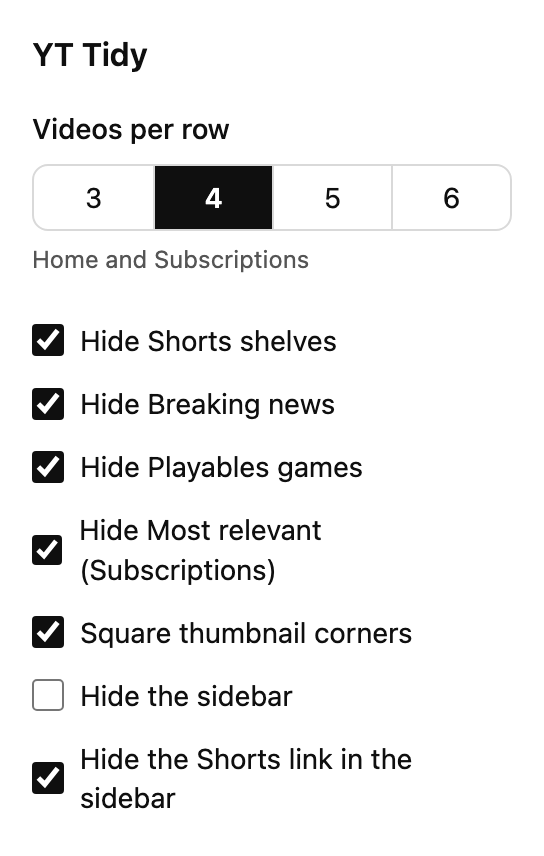
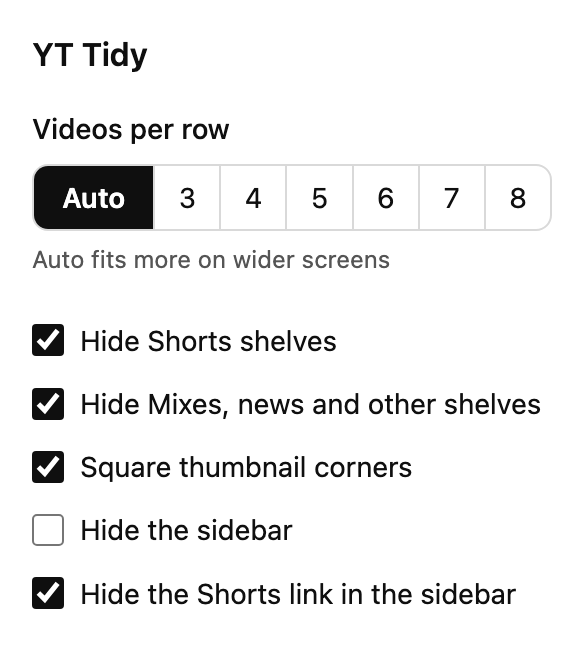
Hide every shelf by its format, fit videos per row to the screen width

diff --git a/src/content.js b/src/content.js
@@ -1,4 +1,4 @@
-/* global YT_TIDY_DEFAULTS, YT_TIDY_COLUMN_CHOICES */
+/* global YT_TIDY_DEFAULTS, YT_TIDY_ROW_CHOICES, YT_TIDY_CARD_WIDTH, YT_TIDY_OLD_KEYS */
 (() => {
   const root = document.documentElement;
 
@@ -14,21 +14,27 @@
     else root.removeAttribute(attribute);
   }
 
+  // The count chosen in the popup, or "auto".
+  let videosPerRowSetting = YT_TIDY_DEFAULTS.videosPerRow;
+
   function apply(settings) {
     setShown("data-ytt-shorts", !settings.hideShorts);
+    setShown("data-ytt-shelves", !settings.hideShelves);
     setShown("data-ytt-shorts-link", !settings.hideShortsLink);
     if (settings.hideSidebar) root.setAttribute("data-ytt-sidebar", "hide");
     else root.removeAttribute("data-ytt-sidebar");
-    setShown("data-ytt-breaking-news", !settings.hideBreakingNews);
-    setShown("data-ytt-playables", !settings.hidePlayables);
-    setShown("data-ytt-most-relevant", !settings.hideMostRelevant);
     if (settings.squareCorners) root.removeAttribute("data-ytt-corners");
     else root.setAttribute("data-ytt-corners", "round");
 
-    const columns = YT_TIDY_COLUMN_CHOICES.includes(Number(settings.columns))
-      ? Number(settings.columns)
-      : YT_TIDY_DEFAULTS.columns;
-    root.style.setProperty("--ytt-columns", String(columns));
+    const choice = YT_TIDY_ROW_CHOICES.find(
+      (option) => String(option) === String(settings.videosPerRow),
+    );
+    videosPerRowSetting = choice ?? YT_TIDY_DEFAULTS.videosPerRow;
+    if (videosPerRowSetting === "auto") {
+      root.style.removeProperty("--ytt-columns");
+    } else {
+      root.style.setProperty("--ytt-columns", String(videosPerRowSetting));
+    }
 
     scheduleReflow();
   }
@@ -38,13 +44,47 @@
   }
 
   loadSettings();
+  chrome.storage.sync.remove(YT_TIDY_OLD_KEYS);
   chrome.storage.onChanged.addListener((_changes, area) => {
     if (area === "sync") loadSettings();
   });
 
+  // ---- "auto": a count that keeps cards near YT_TIDY_CARD_WIDTH ----
+
+  const CARD_GAP = 16; // YouTube's --ytd-rich-grid-item-margin
+
+  function autoColumns(grid) {
+    // The feed sits inside the grid with a gap on each side. Measure the grid,
+    // not the feed: the feed's max-width depends on the count set here.
+    const width = grid.clientWidth - 2 * CARD_GAP;
+    const fits = Math.round(
+      (width + CARD_GAP) / (YT_TIDY_CARD_WIDTH + CARD_GAP),
+    );
+    return Math.min(Math.max(fits, 2), 12);
+  }
+
+  // Sets --ytt-columns on the grid itself, so the Home and Subscriptions
+  // grids each get their own count. A hidden grid (width 0) keeps its last one.
+  function sizeGrid(grid) {
+    if (videosPerRowSetting !== "auto") {
+      grid.style.removeProperty("--ytt-columns");
+      return;
+    }
+    if (!grid.clientWidth) return;
+    const columns = String(autoColumns(grid));
+    if (grid.style.getPropertyValue("--ytt-columns") !== columns) {
+      grid.style.setProperty("--ytt-columns", columns);
+    }
+  }
+
+  const gridSizes = new ResizeObserver((entries) => {
+    for (const { target } of entries) sizeGrid(target);
+    scheduleReflow();
+  });
+
   // ---- Keep shelves from leaving a half-empty row ----
   //
-  // YouTube drops a shelf (Breaking news, Shorts, "Most relevant", ...) into the
+  // YouTube drops a shelf (Breaking news, Shorts, Mixes, ...) into the
   // feed after every 2 or 3 rows of its own 3-wide grid. At 4 wide that lands
   // mid-row and leaves a gap. The feed is a flexbox, so instead of moving nodes
   // (which would upset YouTube's own bookkeeping) we set each child's CSS
@@ -64,29 +104,7 @@
     return content?.firstElementChild?.tagName === "YTD-SHELF-RENDERER";
   }
 
-  // The "Breaking news" shelf has no marker of its own, only its title, so
-  // tag it for content.css. Re-checked on every pass because YouTube reuses
-  // section elements when the feed changes (e.g. picking a topic chip).
-  const BREAKING_NEWS_TITLE = /^breaking news$/i;
-
-  function tagShelves(contents) {
-    for (const section of contents.querySelectorAll(
-      ":scope > ytd-rich-section-renderer",
-    )) {
-      const title = section
-        .querySelector("ytd-rich-shelf-renderer #title")
-        ?.textContent.trim();
-      const kind = title && BREAKING_NEWS_TITLE.test(title) ? "breaking-news" : "";
-      if ((section.dataset.yttShelf ?? "") !== kind) {
-        if (kind) section.dataset.yttShelf = kind;
-        else delete section.dataset.yttShelf;
-      }
-    }
-  }
-
   function reflow(contents) {
-    tagShelves(contents);
-
     const perRow = videosPerRow(contents.parentElement);
     if (!perRow) return;
 
@@ -134,21 +152,24 @@
     reflowQueued = true;
     requestAnimationFrame(() => {
       reflowQueued = false;
-      document.querySelectorAll(FEED_CONTENTS).forEach(reflow);
+      for (const contents of document.querySelectorAll(FEED_CONTENTS)) {
+        const grid = contents.parentElement;
+        gridSizes.observe(grid); // no-op once observed
+        sizeGrid(grid); // YouTube may have rewritten the grid's inline style
+        reflow(contents);
+      }
     });
   }
 
-  // Re-run when videos or shelves are added to a feed, when a shelf renders
-  // its contents (that is when a Shorts shelf becomes hidden, or a heading
-  // becomes recognisable), and when a shelf's title text arrives.
+  // Re-run when videos or shelves are added to a feed, and when a shelf
+  // renders its contents (that is when it becomes hidden, or a heading
+  // becomes recognisable).
   new MutationObserver((records) => {
     for (const { target } of records) {
       const parentTag = target.parentElement?.tagName;
       if (
         (target.id === "contents" && parentTag === "YTD-RICH-GRID-RENDERER") ||
-        (target.id === "content" && parentTag === "YTD-RICH-SECTION-RENDERER") ||
-        (target.closest?.("ytd-rich-shelf-renderer #title") &&
-          target.closest("ytd-rich-section-renderer"))
+        (target.id === "content" && parentTag === "YTD-RICH-SECTION-RENDERER")
       ) {
         scheduleReflow();
         return;

diff --git a/src/content.css b/src/content.css
@@ -15,31 +15,20 @@ html:not([data-ytt-shorts="show"])
   display: none !important;
 }
 
-/* 2. The "Breaking news" shelf. content.js tags it by its title. */
-html:not([data-ytt-breaking-news="show"])
-  ytd-rich-section-renderer[data-ytt-shelf="breaking-news"] {
-  display: none !important;
-}
-
-/* 2b. The "YouTube Playables" games shelf, recognised by its game cards. */
-html:not([data-ytt-playables="show"])
+/*
+ * 2. Every other shelf: a titled row of cards with a "Show more" button, such
+ * as Breaking news, Mixes, Recently played, games and "Most relevant". They
+ * are matched by that format rather than by title, since YouTube keeps adding
+ * new ones. Section headings such as "Latest" on Subscriptions are a
+ * different element and stay.
+ */
+html:not([data-ytt-shelves="show"])
   ytd-browse:is([page-subtype="home"], [page-subtype="subscriptions"])
   ytd-rich-section-renderer:has(
+    #content > ytd-rich-shelf-renderer:not([is-shorts]),
     ytd-mini-game-card-view-model,
     mini-game-card-view-model,
     ytd-game-card-renderer
-  ) {
-  display: none !important;
-}
-
-/*
- * 2c. The "Most relevant" shelf on Subscriptions. It is the only shelf there
- * besides Shorts; the "Latest" heading is a different element and stays.
- */
-html:not([data-ytt-most-relevant="show"])
-  ytd-browse[page-subtype="subscriptions"]
-  ytd-rich-section-renderer:has(
-    #content > ytd-rich-shelf-renderer:not([is-shorts])
   ) {
   display: none !important;
 }
@@ -69,13 +58,21 @@ html[data-ytt-sidebar="hide"] ytd-app ytd-page-manager {
 /*
  * 5. Videos per row. YouTube writes these variables inline on the grid from
  * its own width maths; an !important stylesheet value beats a plain inline one.
- * Shelves nested in the grid set their own copy, so they keep their layout.
+ * content.js sets --ytt-columns: a fixed count on <html>, or for "auto" a
+ * count worked out from each grid's own width.
  */
 ytd-browse:is([page-subtype="home"], [page-subtype="subscriptions"])
   ytd-rich-grid-renderer {
   --ytd-rich-grid-items-per-row: var(--ytt-columns, 4) !important;
   --ytd-rich-grid-posts-per-row: var(--ytt-columns, 4) !important;
   --ytd-rich-grid-item-min-width: 0px !important;
+}
+
+/* A shelf you choose to keep gets cards the same size as the grid's. */
+ytd-browse:is([page-subtype="home"], [page-subtype="subscriptions"])
+  ytd-rich-shelf-renderer:not([is-shorts])
+  ytd-rich-item-renderer {
+  --ytd-rich-grid-items-per-row: var(--ytt-columns, 4) !important;
 }
 
 /*

diff --git a/src/popup.js b/src/popup.js
@@ -1,10 +1,8 @@
-/* global YT_TIDY_DEFAULTS, YT_TIDY_COLUMN_CHOICES */
+/* global YT_TIDY_DEFAULTS, YT_TIDY_ROW_CHOICES */
 const columnsGroup = document.getElementById("columns");
 const toggles = [
   "hideShorts",
-  "hideBreakingNews",
-  "hidePlayables",
-  "hideMostRelevant",
+  "hideShelves",
   "squareCorners",
   "hideSidebar",
   "hideShortsLink",
@@ -12,14 +10,14 @@ const toggles = [
 const hideSidebar = document.getElementById("hideSidebar");
 const hideShortsLink = document.getElementById("hideShortsLink");
 
-for (const count of YT_TIDY_COLUMN_CHOICES) {
+for (const choice of YT_TIDY_ROW_CHOICES) {
   const label = document.createElement("label");
   const input = document.createElement("input");
   input.type = "radio";
-  input.name = "columns";
-  input.value = String(count);
+  input.name = "videosPerRow";
+  input.value = String(choice);
   const text = document.createElement("span");
-  text.textContent = String(count);
+  text.textContent = choice === "auto" ? "Auto" : String(choice);
   label.append(input, text);
   columnsGroup.append(label);
 }
@@ -32,7 +30,7 @@ function syncSidebarDependency() {
 chrome.storage.sync.get(YT_TIDY_DEFAULTS).then((settings) => {
   for (const input of toggles) input.checked = Boolean(settings[input.id]);
   const chosen = columnsGroup.querySelector(
-    `input[value="${Number(settings.columns)}"]`,
+    `input[value="${CSS.escape(String(settings.videosPerRow))}"]`,
   );
   if (chosen) chosen.checked = true;
   syncSidebarDependency();
@@ -46,5 +44,6 @@ for (const input of toggles) {
 }
 
 columnsGroup.addEventListener("change", (event) => {
-  chrome.storage.sync.set({ columns: Number(event.target.value) });
+  const { value } = event.target;
+  chrome.storage.sync.set({ videosPerRow: value === "auto" ? value : Number(value) });
 });

diff --git a/src/settings.js b/src/settings.js
@@ -1,15 +1,23 @@
-// Shared by the content script and the popup.
 // content.css applies these defaults before storage is read, so the page
 // never flashes a hidden shelf. Only the sidebar is opt-in.
 var YT_TIDY_DEFAULTS = {
-  hideShorts: true, // Shorts shelves in the Home and Subscriptions feeds
-  hideBreakingNews: true, // the "Breaking news" shelf on Home
-  hidePlayables: true, // the "YouTube Playables" games shelf on Home
-  hideMostRelevant: true, // the "Most relevant" shelf on Subscriptions
-  hideShortsLink: true, // the "Shorts" entry in the sidebar (if the sidebar is shown)
-  hideSidebar: false, // the left sidebar, its mini version, and the menu button
-  columns: 4, // videos per row on Home and Subscriptions
-  squareCorners: true, // square thumbnails instead of rounded ones
+  hideShorts: true,
+  hideShelves: true,
+  hideShortsLink: true,
+  hideSidebar: false,
+  videosPerRow: "auto",
+  squareCorners: true,
 };
 
-var YT_TIDY_COLUMN_CHOICES = [3, 4, 5, 6];
+// "auto" aims for cards about YT_TIDY_CARD_WIDTH px wide: 5 per row on a
+// laptop or 1920px screen, 7 at 2560px, 10 on a 3440px ultrawide.
+var YT_TIDY_ROW_CHOICES = ["auto", 3, 4, 5, 6, 7, 8];
+var YT_TIDY_CARD_WIDTH = 300;
+
+// Settings from earlier versions, removed from storage on load.
+var YT_TIDY_OLD_KEYS = [
+  "columns",
+  "hideBreakingNews",
+  "hidePlayables",
+  "hideMostRelevant",
+];

diff --git a/src/popup.html b/src/popup.html
@@ -11,7 +11,7 @@
     <fieldset class="columns">
       <legend>Videos per row</legend>
       <div class="segments" id="columns"></div>
-      <p class="note">Home and Subscriptions</p>
+      <p class="note">Auto fits more on wider screens</p>
     </fieldset>
 
     <label class="toggle">
@@ -19,16 +19,8 @@
       <span>Hide Shorts shelves</span>
     </label>
     <label class="toggle">
-      <input type="checkbox" id="hideBreakingNews" />
-      <span>Hide Breaking news</span>
-    </label>
-    <label class="toggle">
-      <input type="checkbox" id="hidePlayables" />
-      <span>Hide Playables games</span>
-    </label>
-    <label class="toggle">
-      <input type="checkbox" id="hideMostRelevant" />
-      <span>Hide Most relevant (Subscriptions)</span>
+      <input type="checkbox" id="hideShelves" />
+      <span>Hide Mixes, news and other shelves</span>
     </label>
     <label class="toggle">
       <input type="checkbox" id="squareCorners" />

diff --git a/src/popup.css b/src/popup.css
@@ -23,7 +23,7 @@
 body {
   margin: 0;
   padding: 16px;
-  width: 240px;
+  width: 260px;
   color: var(--text);
   background: var(--bg);
 }
@@ -56,6 +56,10 @@ legend {
 .segments label {
   flex: 1;
   cursor: pointer;
+}
+
+.segments label:first-child {
+  flex: 1.8;
 }
 
 .segments input {

diff --git a/README.md b/README.md
@@ -3,12 +3,12 @@
 A Chrome extension that cleans up the YouTube home page:
 
 1. Hides the Shorts shelves on Home and Subscriptions.
-2. Hides the Breaking news and YouTube Playables (games) shelves on Home, and the "Most relevant" shelf on Subscriptions.
-3. Shows 4 videos per row on Home and Subscriptions, instead of YouTube's 3.
+2. Hides every other shelf too: Breaking news, Mixes, Recently played, games, "Most relevant" on Subscriptions, and any new kind YouTube adds.
+3. Fits the number of videos per row to your screen, instead of YouTube's 3: 5 on a laptop or 1920px screen, 7 at 2560px, 10 on a 3440px ultrawide.
 4. Squares off the rounded corners on thumbnails and their hover highlight.
 5. Optionally hides the left sidebar too, so the grid gets the full width (off by default).
 
-Each one can be switched on or off, and the row count changed (3 to 6), from the toolbar popup.
+Each one can be switched on or off from the toolbar popup, and the row count fixed at 3 to 8 instead of Auto.
 
 ### Before
 
@@ -16,11 +16,11 @@ Each one can be switched on or off, and the row count changed (3 to 6), from the
 
 ### After
 
-![YouTube Home with YT Tidy: 4 videos per row, square thumbnails, no shelves](docs/after.jpg)
+![YouTube Home with YT Tidy: more videos per row, square thumbnails, no shelves](docs/after.jpg)
 
 ### Settings
 
-<img src="docs/popup.png" alt="The YT Tidy popup at its defaults: 4 videos per row, every shelf hidden, square corners on, sidebar left visible" width="272">
+<img src="docs/popup.png" alt="The YT Tidy popup at its defaults: Auto videos per row, every shelf hidden, square corners on, sidebar left visible" width="272">
 
 ## Install
 
@@ -34,13 +34,15 @@ It needs only the `storage` permission (for your settings) and runs only on `www
 ## How it works
 
 - `src/content.css` does the hiding and sets YouTube's own `--ytd-rich-grid-items-per-row` variable. YouTube writes that variable inline from its width maths; an `!important` stylesheet value overrides it.
-- YouTube drops a shelf (Breaking news, "Most relevant", Shorts) into the feed after every few rows of its 3-wide grid. At 4 wide those land mid-row and leave gaps, so `src/content.js` sets the CSS `order` of each shelf to hold it back until the row it interrupted is full. Section headings such as "Latest" on Subscriptions are left in place.
+- Shelves are matched by their format (a titled row of cards with a "Show more" button), not by their titles, so new kinds are hidden too. Any shelf you keep gets cards the same size as the grid's.
+- On Auto, `src/content.js` watches each grid's width and picks the count that keeps cards close to 300px wide.
+- YouTube drops a shelf into the feed after every few rows of its 3-wide grid. At other widths those land mid-row and leave gaps, so `src/content.js` sets the CSS `order` of each shelf to hold it back until the row it interrupted is full. Section headings such as "Latest" on Subscriptions are left in place.
 - Settings live in `chrome.storage.sync` and are applied as `data-ytt-*` attributes on `<html>`. The hiding rules are on by default in CSS, so no shelf flashes on page load. Hiding the sidebar is opt-in and waits for your settings to load.
 
 ## Notes
 
 - With the sidebar hidden, the menu button goes too. Subscriptions is still at `youtube.com/feed/subscriptions`, or switch the sidebar back on in the popup.
-- The Breaking news shelf and the sidebar's Shorts link have no marker of their own, so they are matched by their English titles ("Breaking news", "Shorts"). In other languages they will not be found.
+- The sidebar's Shorts link has no marker of its own, so it is matched by its English title ("Shorts"). In other languages it will not be found.
 - YouTube changes its markup often. If something stops working, open an issue with the page and what you see.
 
 ## License
